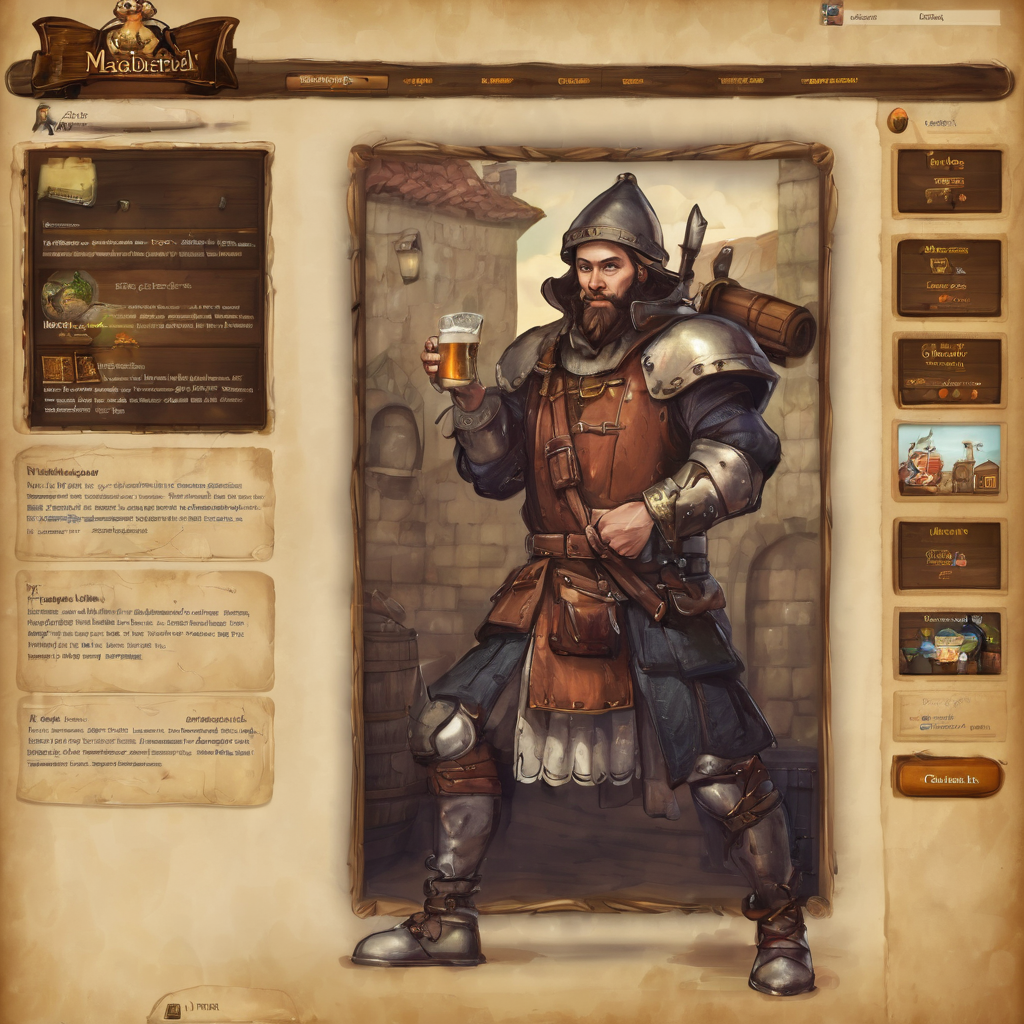
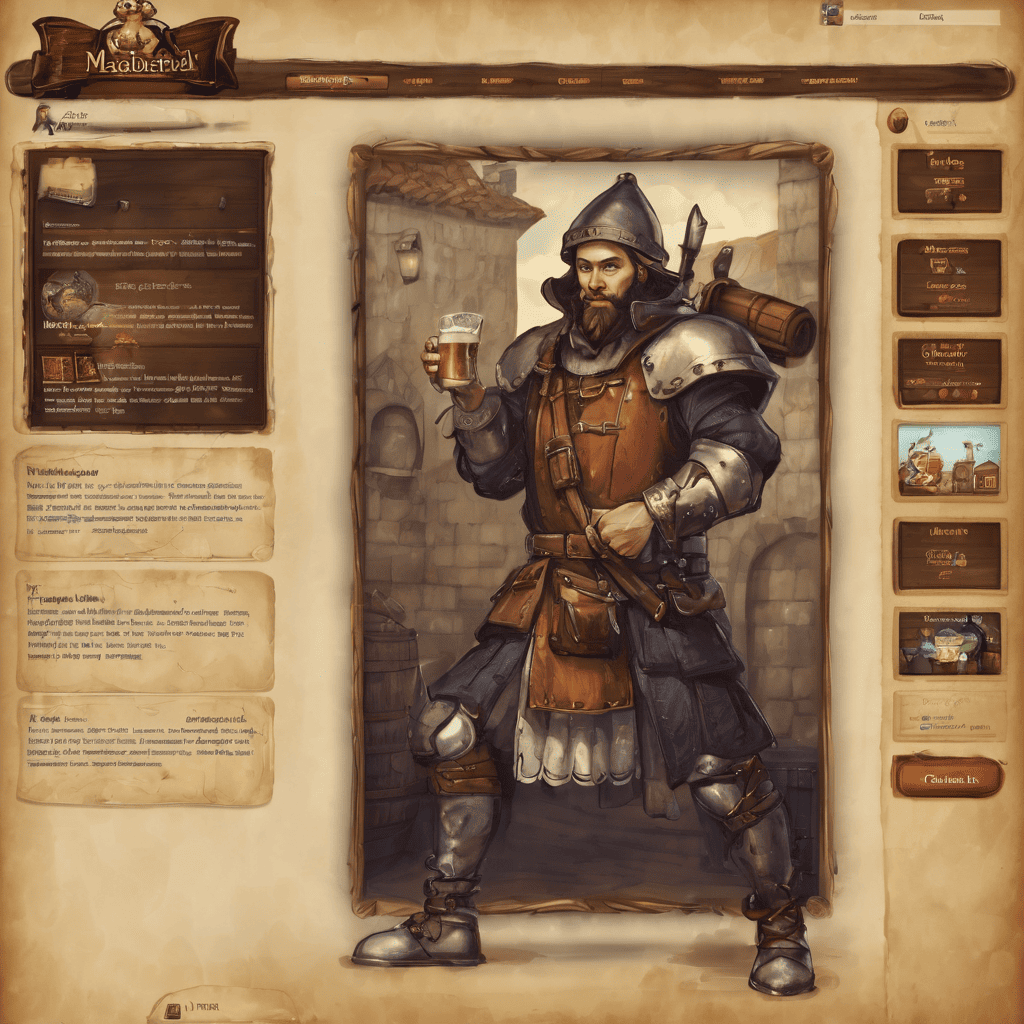
refactort: change photo library and font

diff --git a/src/app/entities/library-system.ts b/src/app/entities/library-system.ts
@@ -3,7 +3,7 @@ import { Projects } from "../interfaces/Projects";
 export const librarySystem: Projects = {
     title: "Library System",
     video : "",
-    thumbnailURL: "assets/projects-img/library/thumbnail.png",
+    thumbnailURL: "assets/projects-img/library/image1.png",
     image: {
         imageUrl: [
             "assets/projects-img/library/image1.png",
@@ -11,7 +11,7 @@ export const librarySystem: Projects = {
         ],
         alt: "Carrosel de imagens da aplicação library system"
     },
-    shortExplication: "Biblioteca está aberta!",
+    shortExplication: "API de biblioteca com SPRING FRAMEWORK",
     tech: ["JAVA", "SPRING BOOT", "SPRING SECURITY 6", "JWT", "SOLID", "POO", "PROGRAMAÇÃO FUNCIONAL", "DESIGNER PATTERN", "SWAGGER-UI", "PROXY REVERSO", "DOCKER", "NGINX", "OCI-VPS", "SSL", "DTO", "VO"],
     github: "https://github.com/Cleyton-ORocha/library_system",
     deploy: "https://library.cleytonorocha.com.br/swagger-ui/index.html#/",

diff --git a/src/index.html b/src/index.html
@@ -10,13 +10,14 @@
   <meta name="description" content="Portifólio pessoal">
   <meta name="keywords" content="HTML, CSS, JavaScript, Angular, Bootstrap, Typescript">
   <meta name="author" content="Cleyton_ORocha">
-
-  <script src="https://kit.fontawesome.com/7fe295723b.js" crossorigin="anonymous"></script>
-
+  
+  <link href="https://fonts.googleapis.com/css2?family=Inter:wght@400;500;700&display=swap" rel="stylesheet">
+  
 </head>
 
 <body>
   <app-root />
+  <script src="https://kit.fontawesome.com/7fe295723b.js" crossorigin="anonymous"></script>
 </body>
 
 </html>

diff --git a/src/styles.css b/src/styles.css
@@ -90,6 +90,7 @@ video {
   font-size: 100%;
   font: inherit;
   vertical-align: baseline;
+  font-family: 'Inter', sans-serif ;
 }
 /* HTML5 display-role reset for older browsers */
 article,
